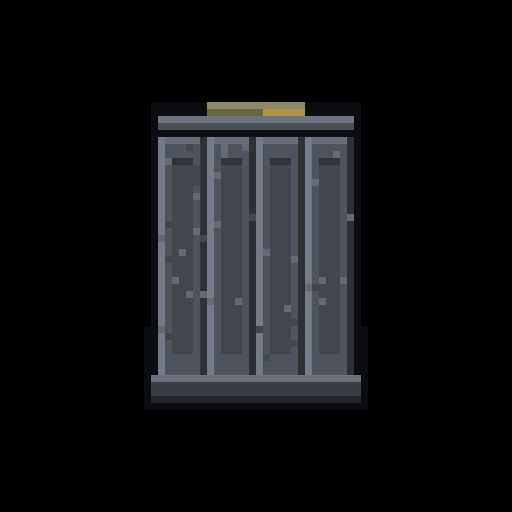
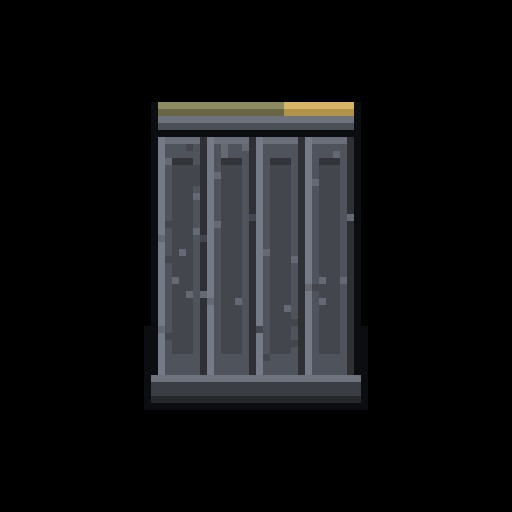
Boltgun 1.4.16: full-width bolt at the top of the Bolt Pistol Magazine
Claude-Session: https://claude.ai/code/session_01PqPi8UEDnERcNBcjVgrc36

Changed region(s): [[0.5, 0.1875, 0.6875, 0.25], [0.3125, 0.1875, 0.4062, 0.25]]

diff --git a/src/Plugin.cs b/src/Plugin.cs
@@ -11,7 +11,7 @@ namespace Boltgun
     public class Plugin : BasePlugin
     {
         public const string Guid = "girthy_mods.zedzone.boltgun";
-        public const string Version = "1.4.15";
+        public const string Version = "1.4.16";
 
         public override void Load()
         {

diff --git a/CHANGELOG.md b/CHANGELOG.md
@@ -1,5 +1,8 @@
 # Changelog
 
+## 1.4.16
+- Bolt Pistol Magazine: the bolt showing at the top is as wide as the magazine.
+
 ## 1.4.15
 - Bolt Pistol Magazine: the top lip is as wide as the body.
 
